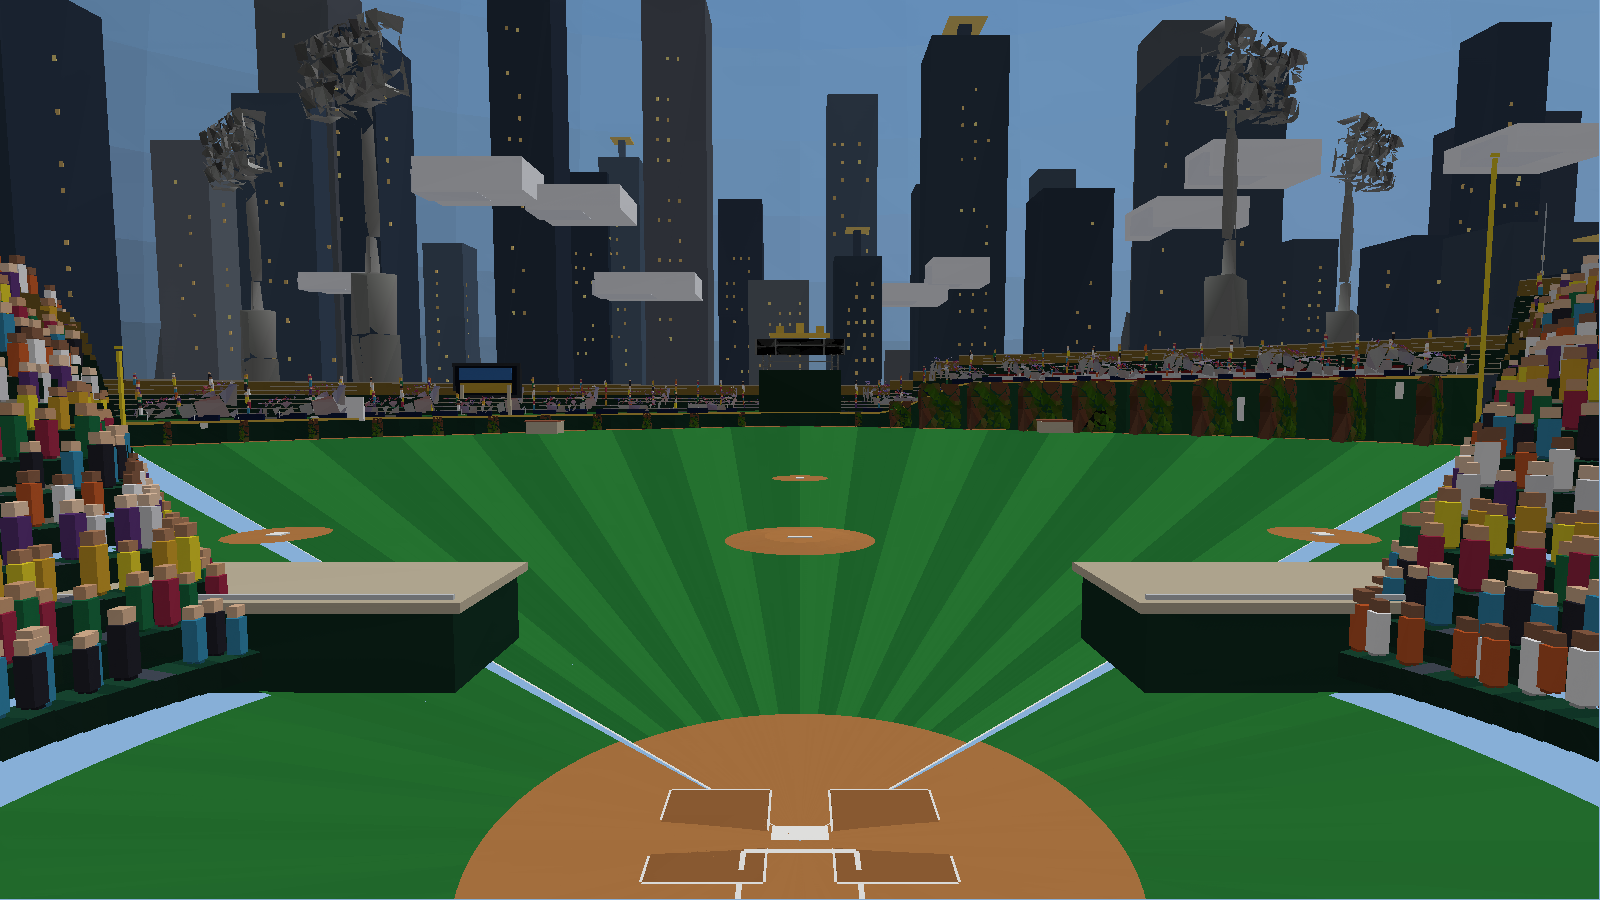
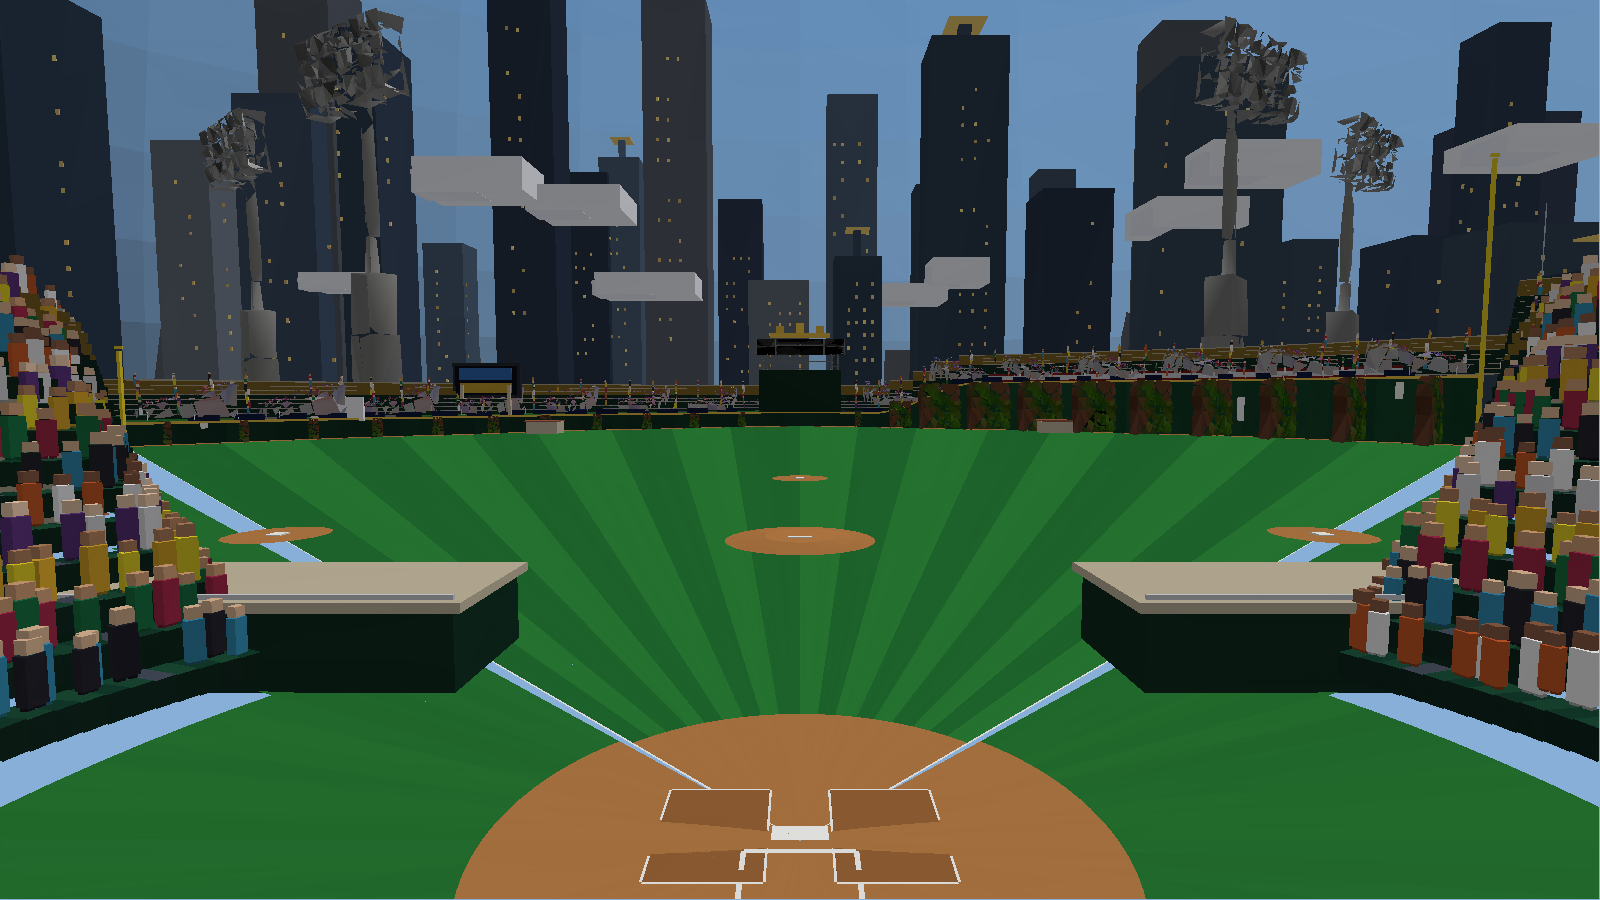
Face the crowd and parked cars instead of one shared world orientation
- Fans are built yaw-rotated now: every spectator squares up toward
  home plate (yaw = -seatAngle) with a small per-fan jitter so the
  crowd reads as people watching the game, not a cloned army
- New addBoxRotY helper (proper rotation, culling-safe winding)
- Parked cars align with their radial stalls and alternate
  nose-in/back-in by seed
- Monster-top perch fans get the same treatment
- Re-rendered README screenshots

Changed region(s): [[0.0, 0.28, 0.1562, 0.7467], [0.9688, 0.3111, 1.0, 0.3422]]

diff --git a/dinger-derby/src/rendering/Stadium3D.cpp b/dinger-derby/src/rendering/Stadium3D.cpp
@@ -67,6 +67,33 @@ void addBox(Mesh3D& m, const Vector3& center, float w, float h, float d, sf::Col
     addQuad(m, p[3], p[7], p[4], p[0], col);
 }
 
+// Yaw-rotated box (rotation about Y through the box center). Same winding as
+// addBox — a proper rotation keeps det=+1, so back-face culling still works.
+void addBoxRotY(
+    Mesh3D& m, const Vector3& center, float w, float h, float d, float yaw, sf::Color col
+) {
+    float hw = w * 0.5f, hh = h * 0.5f, hd = d * 0.5f;
+    const float c = std::cos(yaw);
+    const float s = std::sin(yaw);
+    const Vector3 local[8] = {
+        Vector3(-hw, -hh, -hd), Vector3(hw, -hh, -hd),
+        Vector3(hw, -hh, hd),   Vector3(-hw, -hh, hd),
+        Vector3(-hw, hh, -hd),  Vector3(hw, hh, -hd),
+        Vector3(hw, hh, hd),    Vector3(-hw, hh, hd),
+    };
+    Vector3 p[8];
+    for (int i = 0; i < 8; i++) {
+        const Vector3& v = local[i];
+        p[i] = center + Vector3(v.x * c + v.z * s, v.y, -v.x * s + v.z * c);
+    }
+    addQuad(m, p[0], p[1], p[2], p[3], col);
+    addQuad(m, p[4], p[7], p[6], p[5], col);
+    addQuad(m, p[0], p[4], p[5], p[1], col);
+    addQuad(m, p[1], p[5], p[6], p[2], col);
+    addQuad(m, p[2], p[6], p[7], p[3], col);
+    addQuad(m, p[3], p[7], p[4], p[0], col);
+}
+
 // Local-space bounds of a loaded prop mesh, used to derive fit-to-target
 // scale factors since props come in from Blender/Meshy at arbitrary export
 // scale (meters), not this game's world units.
@@ -1204,11 +1231,18 @@ void addCar(Mesh3D& m, const Vector3& c, float yaw, int seed) {
         sf::Color(40, 45, 55), sf::Color(180, 50, 45), sf::Color(50, 90, 160),
         sf::Color(220, 220, 225), sf::Color(60, 120, 70), sf::Color(140, 100, 40)};
     sf::Color body = bodyCols[static_cast<unsigned>(seed) % 6];
-    // Simple axis-aligned car (yaw ignored for density — fine from overhead)
-    (void)yaw;
-    addBox(m, c + Vector3(0, 0.55f, 0), 2.2f, 0.7f, 4.4f, body);
-    addBox(m, c + Vector3(0, 1.05f, -0.2f), 1.9f, 0.55f, 2.4f, shade(body, 0.85f));
-    addBox(m, c + Vector3(0, 1.15f, -0.2f), 1.7f, 0.35f, 2.0f, sf::Color(80, 140, 180, 150));
+    // Cars park in radial stalls: yaw = pi - stallAngle aims the car's long
+    // axis (local +Z) along the stall; odd seeds back in, evens nose in.
+    float carYaw = pi - yaw + ((seed % 2 == 0) ? 0.0f : pi);
+    auto part = [&](const Vector3& off, float w, float h, float d, sf::Color col) {
+        float cy = std::cos(carYaw);
+        float sy = std::sin(carYaw);
+        Vector3 rotOff(off.x * cy + off.z * sy, off.y, -off.x * sy + off.z * cy);
+        addBoxRotY(m, c + rotOff, w, h, d, carYaw, col);
+    };
+    part(Vector3(0, 0.55f, 0), 2.2f, 0.7f, 4.4f, body);
+    part(Vector3(0, 1.05f, -0.2f), 1.9f, 0.55f, 2.4f, shade(body, 0.85f));
+    part(Vector3(0, 1.15f, -0.2f), 1.7f, 0.35f, 2.0f, sf::Color(80, 140, 180, 150));
 }
 
 Mesh3D buildCity(const Layout& L) {
@@ -1553,18 +1587,27 @@ Mesh3D buildLines(const Layout& L) {
 // CROWDS — dense bowl + OF bleachers
 // ═══════════════════════════════════════════════════════════════════════
 
-void addFan(Mesh3D& m, Vector3 feet, float sc, sf::Color shirt, sf::Color skin) {
+// One fan figure, yaw-rotated so shoulders square up toward home plate
+// instead of every fan in the park sharing one world-space orientation.
+// Local +Z is the fan's facing direction; callers pass yaw = -seatAngle.
+void addFan(Mesh3D& m, Vector3 feet, float yaw, float sc, sf::Color shirt, sf::Color skin) {
+    const float c = std::cos(yaw);
+    const float s = std::sin(yaw);
+    auto place = [&](const Vector3& local, float w, float h, float d, sf::Color col) {
+        Vector3 off(local.x * c + local.z * s, local.y, -local.x * s + local.z * c);
+        addBoxRotY(m, feet + off, w, h, d, yaw, col);
+    };
     // Torso
-    addBox(m, feet + Vector3(0, 0.58f * sc, 0), 0.38f * sc, 1.05f * sc, 0.3f * sc, shirt);
+    place(Vector3(0, 0.58f * sc, 0), 0.38f * sc, 1.05f * sc, 0.3f * sc, shirt);
     // Head
-    addBox(m, feet + Vector3(0, 1.28f * sc, 0), 0.3f * sc, 0.3f * sc, 0.3f * sc, skin);
+    place(Vector3(0, 1.28f * sc, 0), 0.3f * sc, 0.3f * sc, 0.3f * sc, skin);
     // Legs
-    addBox(
-        m, feet + Vector3(-0.1f * sc, 0.18f * sc, 0), 0.14f * sc, 0.4f * sc, 0.16f * sc,
+    place(
+        Vector3(-0.1f * sc, 0.18f * sc, 0), 0.14f * sc, 0.4f * sc, 0.16f * sc,
         shade(shirt, 0.7f)
     );
-    addBox(
-        m, feet + Vector3(0.1f * sc, 0.18f * sc, 0), 0.14f * sc, 0.4f * sc, 0.16f * sc,
+    place(
+        Vector3(0.1f * sc, 0.18f * sc, 0), 0.14f * sc, 0.4f * sc, 0.16f * sc,
         shade(shirt, 0.7f)
     );
 }
@@ -1620,7 +1663,10 @@ std::vector<Mesh3D> buildFanSectors(const Layout& L) {
             seat.x += (hash01(fanId) - 0.5f) * 0.42f;
             seat.z += (hash01(fanId + 3) - 0.5f) * 0.42f;
             float sc = 0.95f + 0.35f * hash01(fanId + 9);
-            addFan(sectors[sector], seat, sc, fanShirt(fanId), fanSkin(fanId + 4));
+            // Face home plate with a little per-fan slouch so the crowd
+            // doesn't look like a cloned army.
+            float yaw = -ang + (hash01(fanId + 17) - 0.5f) * 0.55f;
+            addFan(sectors[sector], seat, yaw, sc, fanShirt(fanId), fanSkin(fanId + 4));
             fanId++;
         };
 
@@ -1674,8 +1720,9 @@ std::vector<Mesh3D> buildFanSectors(const Layout& L) {
                 float y = h + 0.85f + row * 0.85f;
                 Vector3 seat = L.fromHome(r, ang, y);
                 seat.x += (hash01(i * 7 + row) - 0.5f) * 0.3f;
+                float yaw = -ang + (hash01(i * 13 + row * 7) - 0.5f) * 0.55f;
                 addFan(
-                    sectors[sector], seat, 0.9f, fanShirt(i * 5 + row + 20),
+                    sectors[sector], seat, yaw, 0.9f, fanShirt(i * 5 + row + 20),
                     fanSkin(i + row + 2)
                 );
             }
